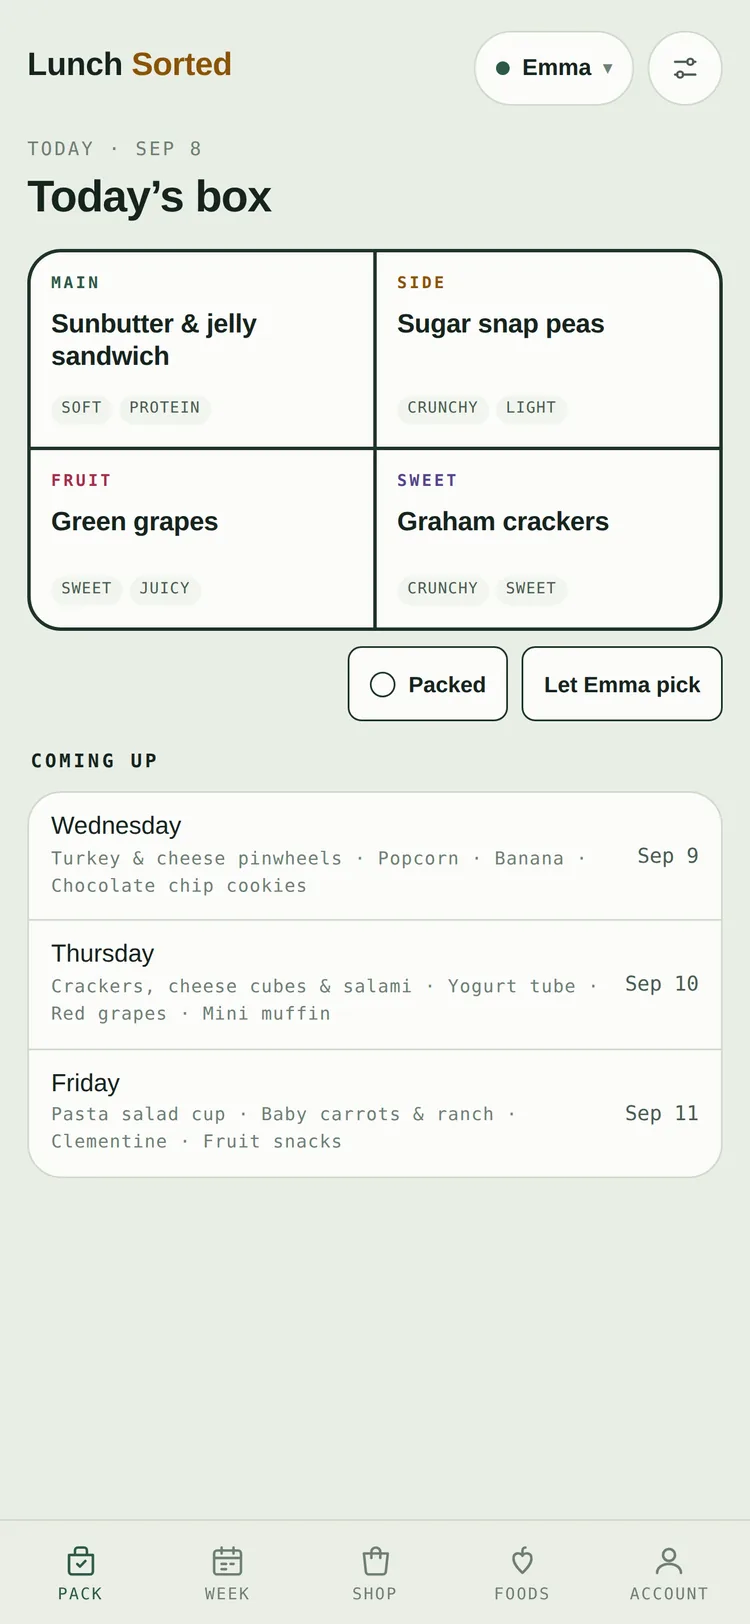
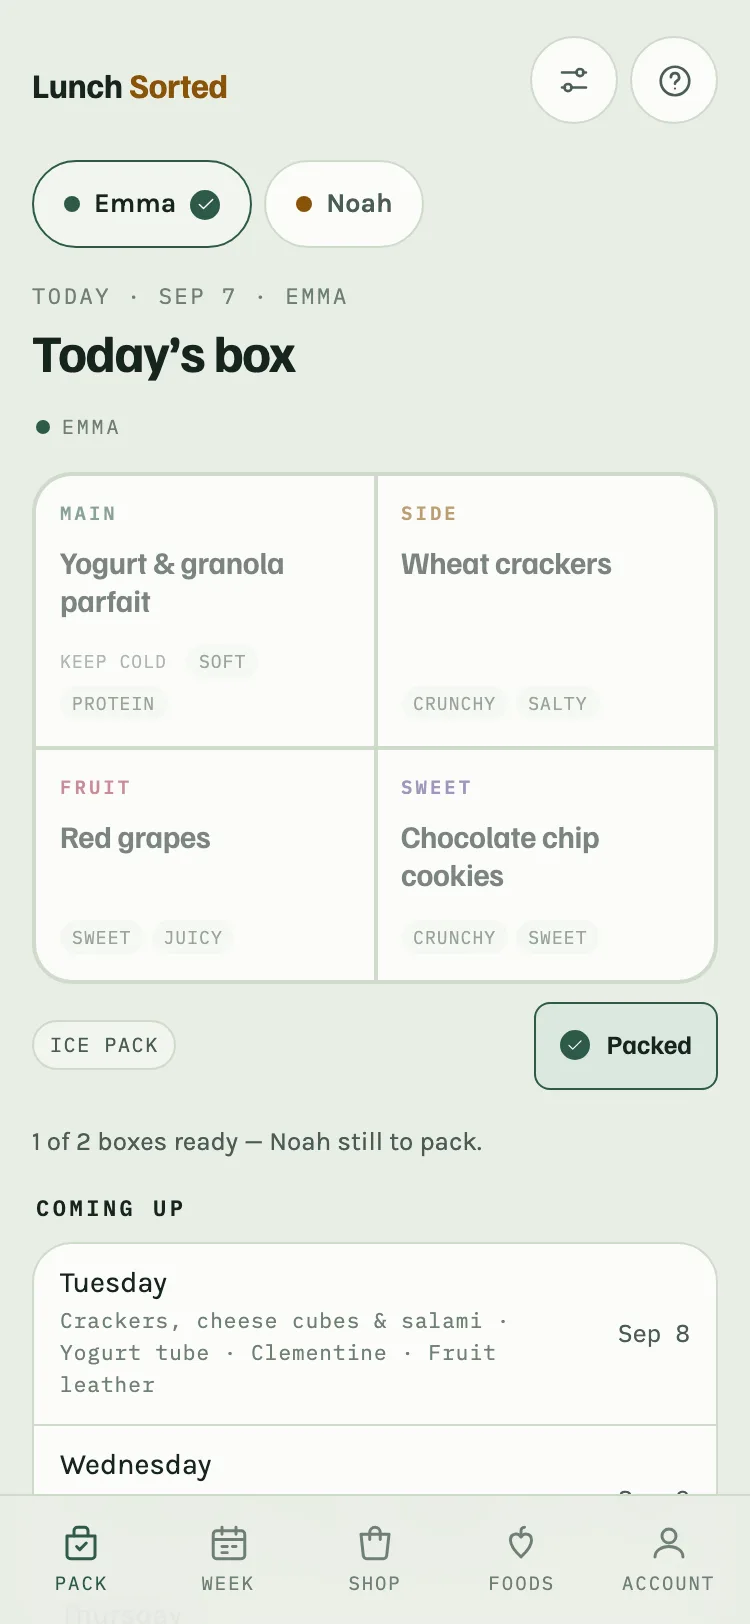
Help, screenshots and docs for the matched household
The app stopped explaining itself on screen for the new behaviour, so the
answers go where a parent looks for them: public/help.html gains "Can I put in
a food a rule says no to?", "I have more than one kid", and "If I change one
kid's Tuesday, do the others change?", and the in-app help sheet carries the
two short versions. The marketing screenshots were of a one-lunchbox household,
which hid the whole change; scripts/shots.mjs (npm run shots) now regenerates
them from a two-lunchbox household on a pinned Monday, with one box packed so
the household line has something to say, and the alt text describes what is
actually in the pictures. README and CLAUDE.md carry the rules: aligned, never
merged; a parent may override; the rest applies to the aligned draw too.

A release-reviewer agent checks the screenshots and both help surfaces against
the code before a deploy, and is added to the mandatory list.

diff --git a/public/help.html b/public/help.html
@@ -39,13 +39,25 @@ strong{color:var(--ink)}
 <p>On Week, tap the compartment (the small swap arrows). Pick another food, or shuffle just that one. Tap a compartment and choose "Don’t change this one" to keep it through the next shuffle. "Shuffle" on a day redraws the day; "Shuffle all" redraws the week.</p>
 
 <h2>Why did a food stop showing up?</h2>
-<p>A school rule or an allergen you set under the gear beside the lunchbox name is keeping it out. The Foods tab marks each food it skips and says which rule. Change the rule, or remove the food.</p>
+<p>A school rule or an allergen you set under the gear beside the lunchbox name is keeping it out. The Foods tab marks each food it skips and says which rule. Change the rule, or remove the food. Rules never delete a food, and they never rewrite a day that has already gone.</p>
+
+<h2>Can I put in a food a rule says no to?</h2>
+<p>Yes. On Week, tap the compartment, then tap the food — it reads &ldquo;has gluten &mdash; tap to use it anyway&rdquo;. It goes in, the toast names the rule with an Undo, and it stays flagged: a <strong>!</strong> on that compartment and an <em>Against your rules</em> mark on the day, on Week and on Pack. That is the whole of it. The flag lasts as long as that food is in that compartment; shuffle it or pick something else and it is gone. The rule still applies to every draw, and if the kid&rsquo;s pick trades that box to another day, the flag travels with it.</p>
+
+<h2>I have more than one kid. Do I set it all up twice?</h2>
+<p>No. Add a lunchbox per kid; each keeps its own rules, food list and week, because two kids can be at two schools. Then:</p>
+<p><strong>One plan, matched.</strong> Plan the week draws them together. The fullest food list leads, and every other box starts from the same foods, swapping only where that box&rsquo;s rules or its own list say otherwise &mdash; so four lunches are the same four lunches, bar the kid who can&rsquo;t have wheat. Turn it off under Account &rarr; Match the boxes and each box is drawn on its own.</p>
+<p><strong>One food, every box.</strong> When you add a food, from the idea bank or your own, it goes into every lunchbox unless you say otherwise. Tap a name under &ldquo;Add it to&rdquo; to leave a box out; that is where the one weird food only one of them eats goes. A box whose rules keep the food out is skipped, and the app says which.</p>
+<p><strong>Swipe between them.</strong> Pack, Week and Foods each show one lunchbox at a time, with the names in a row at the top. Tap one, or swipe sideways. On Pack each name carries a tick once that box is packed, and one line says who is still to pack. Shop is one list for the household and never splits.</p>
+
+<h2>If I change one kid&rsquo;s Tuesday, do the others change?</h2>
+<p>No. Shuffling one lunchbox, or swapping one compartment, changes that lunchbox only. Once you have changed a box on purpose, nothing drags the others along. Plan the week &mdash; the banner that appears whenever a box needs a plan &mdash; is what matches them all up again.</p>
 
 <h2>Where does the shopping list come from?</h2>
 <p>Every planned box, as what to buy: a turkey and cheese pinwheel goes on the list as deli turkey, cheese slices and tortillas, grouped by aisle, with a count when two dishes share a thing. Check off what the pantry already has. Copy puts it on the clipboard; on a phone, the share button sends it to Notes, Reminders or a text.</p>
 
 <h2>How does packing work?</h2>
-<p>Pack shows the next school day’s box with a flag when it needs an ice pack, a sealed container, or is missing protein. One check marks the box packed. The morning after, it asks what came home, and the next week leans toward what actually gets eaten.</p>
+<p>Pack shows the next school day’s box with a flag when it needs an ice pack, a sealed container, or is missing protein. One check marks the box packed. With more than one kid it shows one box at a time; swipe to the next, and a line underneath says how many are ready. The morning after, it asks what came home for every box, and the next week leans toward what actually gets eaten. A food that comes home twice in a row is rested for three weeks, even when the other boxes are having it.</p>
 
 <h2>What is kid’s pick?</h2>
 <p>Under the gear, switch on "They pick their box each day". The night before, hand them the phone: part by part, two pictures at a time, or the whole box against the next one. Either way the choice comes from the week you already shopped for, so nothing new to buy. Add a photo of the real thing beside a food for a child who cannot read yet. The iPhone app can remind you at the time you choose.</p>

diff --git a/public/index.html b/public/index.html
@@ -174,7 +174,7 @@ footer a{color:var(--ink-2)}
         </div>
         <p class="free">Free to plan · everything on for your first three weeks · no card, no account needed</p>
       </div>
-      <div class="shot"><picture><source type="image/webp" srcset="/img/screen-week.webp"><img src="/img/screen-week.png" width="375" height="812" decoding="async" alt="The planner showing Monday through Friday, each as a four-compartment lunchbox with a main, side, fruit and sweet."></picture></div>
+      <div class="shot"><picture><source type="image/webp" srcset="/img/screen-week.webp"><img src="/img/screen-week.png" width="375" height="812" decoding="async" alt="The planner's week view: two lunchboxes named across the top, and each school day drawn as a four-compartment tin with a main, side, fruit and sweet."></picture></div>
     </div>
   </header>
 </div>
@@ -218,7 +218,8 @@ footer a{color:var(--ink-2)}
       <div class="cmp"><span class="lab">Fruit</span>
         <h3>The shopping list writes itself</h3>
         <p>Every planned box rolls into one list grouped by aisle, with quantities. Check off what the pantry
-          already has and shop the rest. More than one kid? One list covers them all.</p></div>
+          already has and shop the rest. More than one kid? One list covers them all &mdash; and so does one
+          plan: every box gets the same lunches, bar the kid whose rules say otherwise.</p></div>
       <div class="cmp"><span class="lab">Sweet</span>
         <h3>Mornings become a checklist &mdash; and kids get a say</h3>
         <p>The next school day as a checklist, with a flag when the box needs an ice pack, a
@@ -234,11 +235,11 @@ footer a{color:var(--ink-2)}
       <p>Designed at phone size first, because that's where lunch actually gets planned.</p>
     </div>
     <div class="shots">
-      <figure><picture><source type="image/webp" srcset="/img/screen-week.webp"><img src="/img/screen-week.png" width="375" height="812" loading="lazy" decoding="async" alt="Week view with five lunchbox tins."></picture>
+      <figure><picture><source type="image/webp" srcset="/img/screen-week.webp"><img src="/img/screen-week.png" width="375" height="812" loading="lazy" decoding="async" alt="Week view with a row of lunchbox names across the top, one selected, and each school day drawn as a four-compartment tin."></picture>
         <figcaption>The week</figcaption></figure>
-      <figure><picture><source type="image/webp" srcset="/img/screen-shop.webp"><img src="/img/screen-shop.png" width="375" height="812" loading="lazy" decoding="async" alt="Shopping list grouped by store aisle."></picture>
+      <figure><picture><source type="image/webp" srcset="/img/screen-shop.webp"><img src="/img/screen-shop.png" width="375" height="812" loading="lazy" decoding="async" alt="One shopping list for the whole household, grouped by store aisle, each item showing which lunchboxes need it."></picture>
         <figcaption>The list</figcaption></figure>
-      <figure><picture><source type="image/webp" srcset="/img/screen-pack.webp"><img src="/img/screen-pack.png" width="375" height="812" loading="lazy" decoding="async" alt="Tomorrow's box as a four-item checklist."></picture>
+      <figure><picture><source type="image/webp" srcset="/img/screen-pack.webp"><img src="/img/screen-pack.png" width="375" height="812" loading="lazy" decoding="async" alt="Pack view for one lunchbox: today&#8217;s box as a four-cell tin with the Packed tick on, and a line reading one of two boxes ready."></picture>
         <figcaption>The morning</figcaption></figure>
       <figure><picture><source type="image/webp" srcset="/img/screen-kidpick.webp"><img src="/img/screen-kidpick.png" width="375" height="812" loading="lazy" decoding="async" alt="Kid's pick: two large picture tiles to choose the main from."></picture>
         <figcaption>The kid&#8217;s pick</figcaption></figure>

diff --git a/public/app/index.html b/public/app/index.html
@@ -2999,6 +2999,8 @@ function helpSheet(){
     ['How does it pick the week?', 'From the foods on your list, matched so each box goes together. Shuffle a day, or tap a compartment to change one thing.'],
     ['Why did a food stop showing up?', 'A school rule or allergen under the gear beside the lunchbox name. Foods it skips are marked on the Foods tab.'],
     ['Where does the shopping list come from?', 'Every planned box, as what to buy. Copy it, or send it to Notes.'],
+    ['I have more than one kid \u2014 do I set it all up twice?', 'No. Add a lunchbox each. Plan the week gives them the same lunches where their own rules allow it, a food you add goes into every box unless you say otherwise, and you swipe between them.'],
+    ['Can I put in a food a rule says no to?', 'Yes. Tap the compartment, tap the food, and it goes in flagged with a \u201c!\u201d. The rule still applies to every draw.'],
     ['Do I need an account?', 'No. Sign in to share with the other parent and keep a backup.'],
     ['What is free?', 'Planning, the shopping list and packing, for one lunchbox. Kid\u2019s pick, the morning review, a pantry that remembers, more lunchboxes and sharing are the Household plan, free for three weeks.']
   ];

diff --git a/.claude/agents/release-reviewer.md b/.claude/agents/release-reviewer.md
@@ -1,0 +1,59 @@
+---
+name: release-reviewer
+description: Checks that the shipped surfaces still match the app after a functional change — the screenshots on the marketing site and the answers in public/help.html and the in-app help sheet. Use before every deploy that changes what a parent sees or how the app behaves.
+tools: Read, Grep, Glob, Bash
+---
+
+You are the release reviewer for Lunch Sorted. Code review is someone else's job. Yours is the
+part that goes stale silently: the pictures on the site and the words in the help page. A parent
+who was sold one app and opened another has been misled, whether or not anyone lied on purpose.
+
+Read `README.md` (the product spec) and `CLAUDE.md` (the product rules) first, then the change.
+
+## 1. Screenshots
+
+`public/img/` holds the marketing screenshots (`screen-*.png` and a `.webp` beside each) and
+`public/img/og.png`. `public/index.html` references them with `alt` text and `width`/`height`.
+
+- Work out which screens the change alters — new chrome, moved controls, renamed labels, a
+  different empty state, a new row or flag.
+- Open each affected screenshot with the Read tool and **look at it**. Say what is in it, then say
+  what the current code would render instead. A screenshot showing a control that no longer
+  exists, or missing one a parent will now see first, is a finding.
+- Check each `alt` still describes the picture, and each `width`/`height` still matches the file.
+- Check every `.png` has its `.webp` twin and both are referenced.
+- Check the product name in any image that carries it (a rename leaves these behind).
+- When a screenshot needs replacing, say exactly which file, what the new shot must show, and
+  which app state to get there from (which tab, how many lunchboxes, what has been ticked).
+  You cannot take the shot yourself; the fix is a precise instruction, not a vague "update this".
+
+## 2. Help
+
+`public/help.html` is the long-form source for how the app works, reached from the `?` in the app
+("More answers") and the site footer; `helpSheet()` in `public/app/index.html` carries the short in-app
+answers and must agree with it. It is the place explanatory detail belongs — the app itself
+carries only short descriptors, so anything trimmed out of the UI must be findable here.
+
+- For each behaviour the change adds or alters, find the answer that covers it. Quote the stale
+  sentence and write the replacement.
+- If the change introduces something no existing answer covers, draft a **new** `<h2>` question in
+  the page's voice, placed where a parent would look for it, and say which existing answers it
+  should sit between.
+- Flag answers that describe controls, screens or wording that no longer exist. Check the concrete
+  nouns especially: tab names, button labels, setting names, where a thing lives.
+- Check nothing in the help page promises what the app does not do, and that no claim about
+  money, plans, prices, trials or refunds appears unless the code and the site actually back it.
+- Voice: written for a parent, second person, no jargon, no IDs, answers short enough to read on a
+  phone. Match the surrounding page.
+
+## 3. The joins
+
+- Every link in and out of the help page resolves (`/`, `/app/`, the mail address, the footers on
+  `public/index.html` and `public/privacy.html`, the `?` and the Setup row in the app).
+- `netlify.toml` carries a headers block for any new page.
+- The site's own body copy (`public/index.html`) is a marketing claim about behaviour: check it
+  against what the change made true.
+
+Report findings in two sections, **Screenshots** and **Help**, each with file:line, the stale
+thing quoted, and the exact replacement text or reshoot instruction. If a surface is still
+accurate, say so and say what you checked. Never report "probably fine" — open the file.

diff --git a/README.md b/README.md
@@ -29,6 +29,14 @@ food list from a 200-item library and produce a planned week immediately. From t
   (crunchy, soft, protein, tangy, sweet, salty, juicy, hearty, light), two at most. Keep a
   compartment and it survives the next shuffle; shuffling that one compartment on purpose
   un-keeps it. Every compartment that can change shows a small swap arrow; a kept one, a lock.
+- **More than one lunchbox** — Plan the week draws them together: the fullest food list leads,
+  and every other box starts from the same foods, swapping only where that box's school rules or
+  its own food list say otherwise. Shuffling one box, or swapping one compartment, changes that
+  box alone. Turn it off under Account (**Match the boxes**). Pack, Week and Foods carry a row of
+  lunchboxes to tap or swipe between; on Pack each pill shows whether that box is packed or
+  still owes yesterday's answer, and one line names who is left to pack. A food added from the
+  idea bank or by hand goes into every lunchbox unless you say otherwise; a box whose rules keep
+  it out is skipped and named.
 - **Shop** — every planned box rolled into one aisle-grouped list across all lunchboxes. A dish
   goes on the list as what you buy for it (`buy` on the food: turkey and cheese pinwheels are
   deli turkey, cheese slices and tortillas; `ING_AISLE` puts each part in its aisle), one line
@@ -71,6 +79,12 @@ food list from a 200-item library and produce a planned week immediately. From t
   becomes state, so a bad import can never brick the app; a save the app can't read is kept
   under a dated backup key rather than overwritten; "Clear the plans" and "Erase everything"
   are two-tap, deleting a food offers Undo, and the shopping ticks survive a plan clear.
+- **A parent may override a rule** for one compartment: pick a flagged food from the
+  compartment sheet and it goes in, rule named, with Undo. The compartment carries a `!`, the day
+  an *Against your rules* chip, and the rules sweep leaves it alone. The override is recorded
+  against that exact food in that compartment (`day.over`), so a re-draw, another choice, the food
+  deleted or the compartment switched off ends it; when the kid's pick trades a part or a box, it
+  travels with its food.
 - **Rules re-check the plan.** Changing any rule sweeps the week on screen: a food that now
   breaks a rule leaves its compartment — locked, kid-picked or not — and the compartment is
   drawn again, with a toast saying how many changed. Switching a compartment off clears it
@@ -98,6 +112,7 @@ Built for more than one user from the start, though it runs today with no accoun
 account            one household — a server only ever has to filter by account id
 ├── members[]      the adults who use it; per-person actions record `by: memberId`
 ├── kids[]         lunchbox profiles, each with its OWN rules, foods, week, pack state
+├── align          household-wide: {on, updatedAt} — draw every lunchbox from the same foods
 └── pantry{}       household-wide, keyed by normalized food name
 ```
 

diff --git a/CLAUDE.md b/CLAUDE.md
@@ -17,10 +17,17 @@ author and the Netlify + Neon stack. Read `README.md` first; it is the product s
 - The parent is the user. A child only ever sees the kid's-pick screen, handed over by the
   parent, and is never asked for anything. Stay out of Apple's Kids Category and out of COPPA
   scope: nickname or initials are enough, allergens are optional, no analytics SDKs.
-- School rules flag foods; they never delete them. A rule change re-checks the live plan.
+- School rules flag foods; they never delete them. A rule change re-checks the live plan. A
+  parent may override a rule for one compartment; it stays flagged, ends when that food leaves
+  the compartment, and travels with the food when the kid's pick trades it.
 - Pairing is deterministic (`pairScore`, `bestAssignment`). Randomness lives only in draws.
-- A day that has gone is never rewritten by a re-draw. What was packed stays as it was.
-- Two "came home" in a row rests a food for three weeks, everywhere a food can be drawn.
+- Lunchboxes are aligned, never merged. Plan the week starts every box from the lead box's
+  foods and swaps only where a box's own rules or its own food list say otherwise; a
+  per-lunchbox shuffle or a single swap never reaches the other boxes.
+- A day that has gone is never rewritten by a re-draw or a rules sweep. What was packed stays.
+- Two "came home" in a row rests a food for three weeks, everywhere a food can be drawn —
+  including the aligned draw. The rule's own exception: a list too short to fill the week may
+  draw a resting food rather than leave a compartment empty.
 - Signed out, everything stays on the phone. Signed in, the household document is the unit
   of sync; merge by record timestamp (`LSMerge`), the local copy wins ties.
 - Payments happen on the web, never through the App Store. The entitlement is a row on the
@@ -35,6 +42,7 @@ npm ci
 npm run dev           # static server on :8099 (no API)
 npm test              # CSP check, then the Playwright smoke suite with an in-process Postgres
 npm run csp           # regenerate the CSP hashes in netlify.toml after any change to public/app/index.html
+npm run shots         # regenerate public/img/screen-*.png|webp (needs `npm run dev` running)
 npm run migrate       # apply netlify/database/migrations/*.sql (needs NETLIFY_DATABASE_URL)
 ```
 
@@ -97,5 +105,8 @@ Before merging to `main`, or when the user says the work is ready, run the revie
 - **security-reviewer**: if the change touches `netlify/`, sign-in, sync, imports, or the CSP.
 - **ux-reviewer**: if the change touches `public/app/index.html` markup or CSS, or the site.
 - **efficiency-reviewer**: if the change adds a function, a query, a fetch, a cron, or a build step.
+- **release-reviewer**: if the change alters what a parent sees or how the app behaves — it checks
+  the marketing screenshots in `public/img/`, the in-app `helpSheet()` and `public/help.html`, and
+  drafts the replacements.
 
 Do not deploy with unresolved findings unless the user waves them off.
